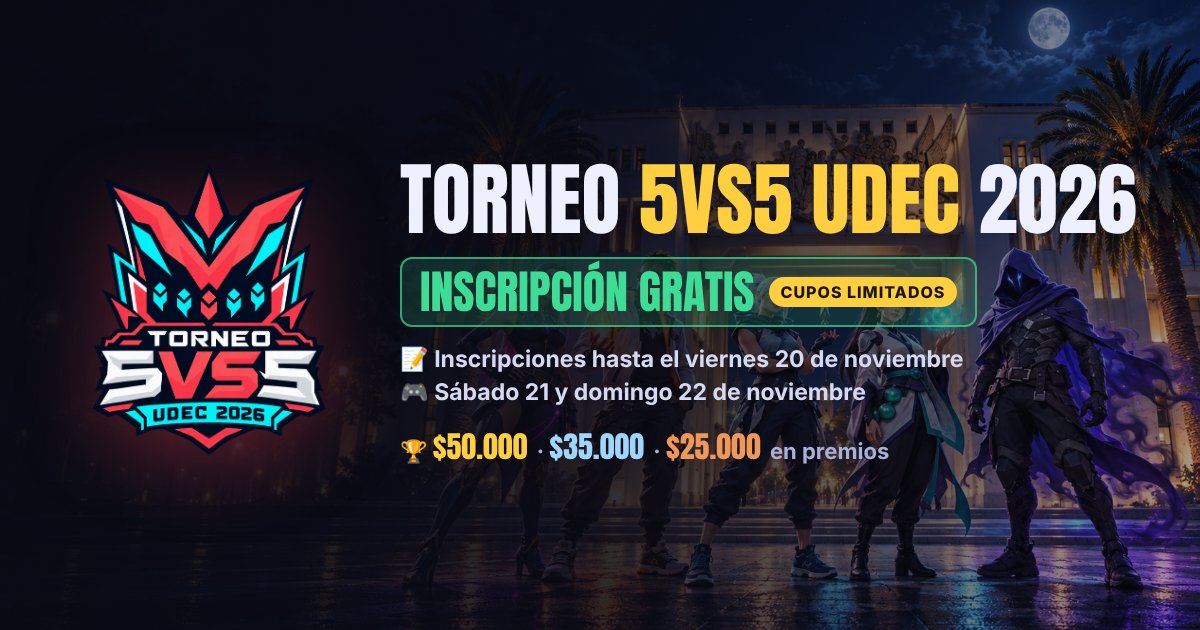
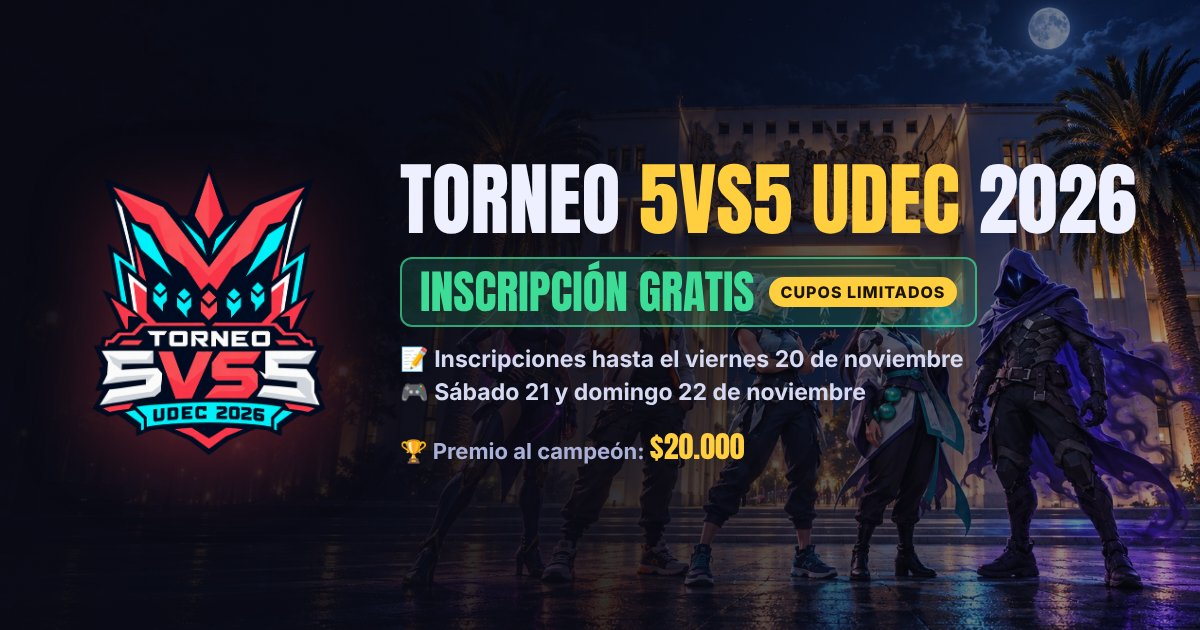
Premio único de $20.000 al campeón
Claude-Session: https://claude.ai/code/session_019AcMshCGv5Ui8ZybqHeVYt

Changed region(s): [[0.3392, 0.6635, 0.74, 0.754]]

diff --git a/app/page.tsx b/app/page.tsx
@@ -43,22 +43,10 @@ export default async function Home() {
             <Link className="btn ghost lg" href="/cuadro">Ver el cuadro</Link>
           </div>
 
-          <div className="prizes">
-            <div className="prize second">
-              <div className="ico">🥈</div>
-              <div className="place">2do lugar</div>
-              <div className="amount">$35.000</div>
-            </div>
-            <div className="prize first">
-              <div className="ico">🏆</div>
-              <div className="place">1er lugar</div>
-              <div className="amount">$50.000</div>
-            </div>
-            <div className="prize third">
-              <div className="ico">🥉</div>
-              <div className="place">3er lugar</div>
-              <div className="amount">$25.000</div>
-            </div>
+          <div className="prize-single">
+            <div className="ico">🏆</div>
+            <div className="place">Premio al equipo campeón</div>
+            <div className="amount">$20.000</div>
           </div>
         </div>
       </section>
@@ -69,7 +57,7 @@ export default async function Home() {
             <div className="panel stat"><div className="n">{teams.length}</div><div className="l">Equipos inscritos</div></div>
             <div className="panel stat"><div className="n">{players}</div><div className="l">Jugadores</div></div>
             <div className="panel stat"><div className="n">{played}<span className="muted" style={{ fontSize: 22 }}>/{real.length || '–'}</span></div><div className="l">Partidos jugados</div></div>
-            <div className="panel stat"><div className="n" style={{ color: 'var(--gold)' }}>$110K</div><div className="l">En premios</div></div>
+            <div className="panel stat"><div className="n" style={{ color: 'var(--gold)' }}>$20.000</div><div className="l">Premio al campeón</div></div>
           </div>
         </div>
 

diff --git a/app/globals.css b/app/globals.css
@@ -442,3 +442,10 @@ body::before {
 .countdown span { display: block; margin-top: 4px; font-size: 11px; font-weight: 700; text-transform: uppercase; letter-spacing: 1px; color: var(--muted); }
 .countdown-done { margin-top: 8px; font-weight: 800; color: #ff8f99; }
 @media (max-width: 480px) { .countdown > div { min-width: 62px; } .countdown b { font-size: 28px; } .free-dates { font-size: 14px; } }
+
+/* ---------- Premio único ---------- */
+.prize-single { max-width: 420px; margin: 40px auto 0; padding: 26px 20px 24px; text-align: center; clip-path: var(--cut);
+  background: linear-gradient(180deg, rgba(255,207,63,.18), rgba(255,207,63,.04)); border: 1px solid rgba(255,207,63,.45); }
+.prize-single .ico { font-size: 38px; line-height: 1; }
+.prize-single .place { font-family: var(--display); text-transform: uppercase; font-size: 20px; letter-spacing: 1px; margin-top: 8px; }
+.prize-single .amount { font-family: var(--display); font-size: clamp(48px, 9vw, 72px); line-height: 1.05; color: var(--gold); text-shadow: 0 0 40px rgba(255,207,63,.25); }

diff --git a/app/layout.tsx b/app/layout.tsx
@@ -13,7 +13,7 @@ import { isDemo } from '@/lib/db';
 export const dynamic = 'force-dynamic';
 
 const SITE_URL = process.env.NEXTAUTH_URL || 'https://torneo-udec.vercel.app';
-const DESCRIPTION = 'Torneo 5vs5 de eliminación directa. 1er lugar $50.000 · 2do $35.000 · 3er $25.000. Inscripción GRATIS · cupos limitados · hasta el viernes 20 de noviembre.';
+const DESCRIPTION = 'Torneo 5vs5 de eliminación directa. Premio de $20.000 al equipo campeón. Inscripción GRATIS · cupos limitados · hasta el viernes 20 de noviembre.';
 
 export const metadata: Metadata = {
   metadataBase: new URL(SITE_URL),

diff --git a/lib/reglamento.ts b/lib/reglamento.ts
@@ -55,8 +55,8 @@ export const REGLAMENTO: { id: string; title: string; items: string[] }[] = [
     id: 'premios',
     title: 'Premios',
     items: [
-      '1er lugar: $50.000 · 2do lugar: $35.000 · 3er lugar: $25.000.',
-      'Los premios se entregan al capitán del equipo una vez terminado el torneo.',
+      'Hay un único premio de $20.000 para el equipo campeón.',
+      'El premio se entrega al capitán del equipo campeón una vez terminado el torneo.',
     ],
   },
 ];
